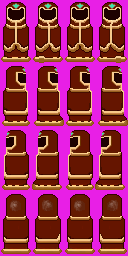
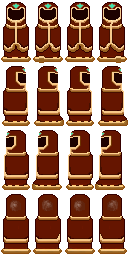
Added in the Character + Animation

diff --git a/game.html b/game.html
@@ -20,6 +20,21 @@
 				this.Y = 64.0;						//Y Coords on Canvas
 				this.color = '#0000ff';			    //Color of player if drawing Polygons
 				this.group = "";
+				this.frame_Y = 64.0;
+				this.frame_X = 64.0;
+				this.current_frame = 0;
+				this.img = new Image();
+
+				this.UpdateAni = function () {
+				    if (lastInputs[0] == true || 
+                        lastInputs[1] == true ||
+                        lastInputs[2] == true ||
+                        lastInputs[3] == true) {
+				        if (this.current_frame > 2) { this.current_frame = 0; }
+				        this.current_frame += 1;
+				    }
+				};
+				this.interval_timer = 0;
 				
 				this.DrawPlayer = function(canvas, color) {
 					canvas.fillStyle = color || this.color;
@@ -27,7 +42,21 @@
 					canvas.arc(this.X, this.Y, 4, 0, 2 * Math.PI);
 					canvas.fill();
 				};//End DrawPlayer()
-				
+
+				this.DrawPlayerImage = function (canvas) {
+				    this.UpdateAni();
+				    canvas.drawImage(
+                        this.img,
+                        ((this.current_frame * this.frame_X)/ 2),
+                        this.frame_Y,
+                        32,
+                        64,
+                        (this.X - 16),
+                        (this.Y - 45),
+                        32,
+                        64);
+				};//End DrawPlayer()
+
 			}//End Player()
 			
 			//Map Object Template
@@ -86,8 +115,9 @@
 			//------------------------------------------------------------------
 			//GLOBAL VARS
 			var ws = new WebSocket("ws://76.72.20.147:4444");		    //Websocket Object
-			var player = new Player();								//Current Client User
-				player.color = '#ff0000';							//Current player is red; Everyone else is blue
+			var player = new Player();								    //Current Client User
+				player.color = '#ff0000';							    //Current player is red; Everyone else is blue
+				player.img.src = 'graphics/ClosedNatureMan.png';        //Player image
 			
 			var players = [];										//All other players on the map --  NOTE: Associative Array
 			var map = new Map(640, 420, '#000000', '#ffffff');		//Map Object
@@ -95,7 +125,7 @@
 			
 			var lastInputs = [false,false,false,false];
 			
-		
+		    
 		
 		
 			//------------------------------------------------------------------
@@ -147,7 +177,8 @@
                 map.DrawBackgroundColor(canvas)             //BG Color - Typically just Black
 				map.DrawBGImage(canvas);                    //BG Image
 				map.DrawPolygons(canvas);                   //Polygons
-				player.DrawPlayer(canvas, player.color);    //Current Player
+				player.DrawPlayerImage(canvas);             //Player only
+				//player.DrawPlayer(canvas, player.color);    //Current Player
 				for (var key in players) {             //Then all other Players
 				    if (key == undefined) continue;
                     else players[key].DrawPlayer(canvas);
@@ -172,21 +203,26 @@
 				//Setup the Keydown Event's which are sent to the Server
 				document.addEventListener('keydown', function(event) {
 				    var changed = false;
+				    player.moving = true;
 					if(event.keyCode == 87 && lastInputs[2] == false) {		//W
 						lastInputs[2] = true;
 						changed = true;
+                        player.frame_Y = 192;
 					} 
 					if(event.keyCode == 65 && lastInputs[1] == false) {		//A
 						lastInputs[1] = true;
 						changed = true;
+						player.frame_Y = 128;
 					} 
 					if(event.keyCode == 83 && lastInputs[0] == false) {		//S
 						lastInputs[0] = true;
 						changed = true;
+						player.frame_Y = 0;
 					}
 					if(event.keyCode == 68 && lastInputs[3] == false) {		//D
 						lastInputs[3] = true;
 						changed = true;
+						player.frame_Y = 64;
 					}
 					if(changed) {
 						var x = (lastInputs[3]?1:0) - (lastInputs[1]?1:0);	//Incase A & D are pressed at the same-time, player doesn't actually move
@@ -198,6 +234,7 @@
 				   //Samething as above except for Keyup Events
 				   document.addEventListener('keyup', function(event) {
 					var changed = false;
+					player.moving = false;
 					if(event.keyCode == 87 && lastInputs[2] == true) {		//W
 						lastInputs[2] = false;
 						changed = true;
